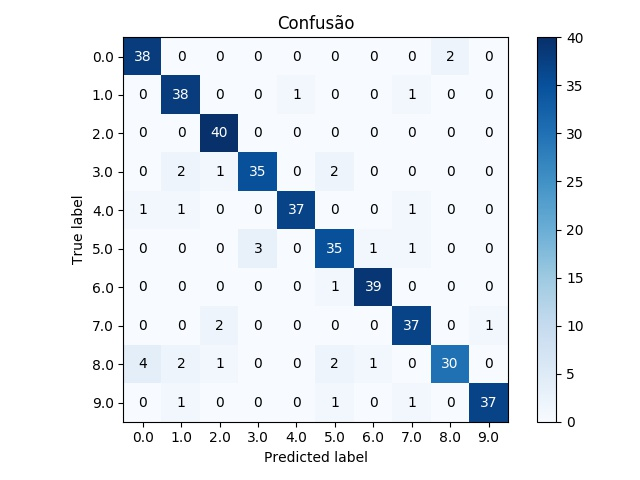
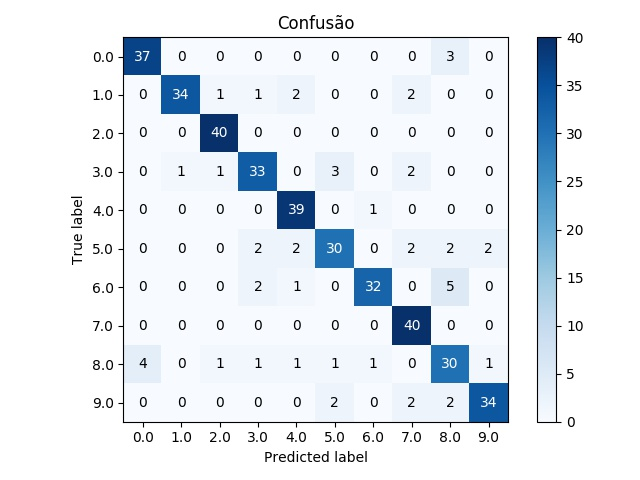
random stuff

diff --git a/main.py b/main.py
@@ -16,9 +16,6 @@ from functools import partial
 import numpy as np
 import random
 
-SEED = 0
-
-
 def data_loader(path):
 
     data = np.load(path)
@@ -36,26 +33,33 @@ def data_normalizer(X):
     return X
 
 
+def compute_number_neurons(n_features, n_classes):
+    # Masters (1993)
+    return int(np.ceil(np.sqrt(n_features * n_classes)))
+
+
 ###################### Multi-layer Perceptron ######################
 
 @ignore_warnings(category=ConvergenceWarning)
-def mlp_fitness(X_train, Y_train):
+def mlp_fitness(n_features, n_classes, X_train, Y_train):
 
-    clf = MLPClassifier(hidden_layer_sizes=(30,), random_state=SEED, max_iter=10) # in this case, max_iter is max_epochs
+    n = compute_number_neurons(n_features, n_classes)
+    clf = MLPClassifier(hidden_layer_sizes=(n,), random_state=SEED, max_iter=10) # in this case, max_iter is max_epochs
     clf.fit(X_train, Y_train) 
     train_score = clf.score(X_train, Y_train) 
     return train_score
 
 
 @ignore_warnings(category=ConvergenceWarning)
-def mlp_train_eval(X_train, Y_train, X_test, Y_test, mask=None):
+def mlp_train_eval(n_features, n_classes, X_train, Y_train, X_test, Y_test, mask=None):
 
     if mask is not None:
         X_train = mask_input(X_train, mask)
         X_test = mask_input(X_test, mask)
 
     # should be concistent with net above
-    clf = MLPClassifier(hidden_layer_sizes=(10,), random_state=SEED, max_iter=10) # in this case, max_iter is max_epochs
+    n = compute_number_neurons(n_features, n_classes)
+    clf = MLPClassifier(hidden_layer_sizes=(n,), random_state=SEED, max_iter=10) # in this case, max_iter is max_epochs
     clf.fit(X_train, Y_train)
     train_accuracy = clf.score(X_train, Y_train)
 
@@ -76,18 +80,23 @@ def mlp_train_eval(X_train, Y_train, X_test, Y_test, mask=None):
 def sigmoid(X):
     return 1. / (1. + np.exp(-X))
 
-class ELMRegressor():
-    def __init__(self, n_hidden_units):
-        self.n_hidden_units = n_hidden_units
+class ELMClassifier():
+    def __init__(self, n_features, n_classes):
+
+        self.n_features = n_features
+        self.n_classes = n_classes
+        self.n_hidden_units = compute_number_neurons(n_features, n_classes)
 
     def fit(self, X, Y):
         Y = self._format(Y)
+        assert X.shape[1] == self.n_features and Y.shape[1] == self.n_classes
         X = np.column_stack([X, np.ones([X.shape[0], 1])])
-        self.random_weights = np.random.randn(X.shape[1], self.n_hidden_units)
+        self.random_weights = np.random.randn(self.n_features + 1, self.n_hidden_units)
         G = sigmoid(X.dot(self.random_weights))
         self.w_elm = np.linalg.pinv(G).dot(Y)
 
     def predict(self, X):
+        assert X.shape[1] == self.n_features
         X = np.column_stack([X, np.ones([X.shape[0], 1])])
         G = sigmoid(X.dot(self.random_weights))
         Y_pred = G.dot(self.w_elm)
@@ -95,8 +104,7 @@ class ELMRegressor():
         return Y_pred
 
     def _format(self, Y):
-        n_classes = int(np.amax(Y) + 1) # it will work only for data formated with classes [0, ..., n]
-        Y_ = np.zeros((Y.shape[0], n_classes)) - 1.0
+        Y_ = np.zeros((Y.shape[0], self.n_classes)) - 1.0
         Y_[np.arange(Y.shape[0]), Y.astype(np.uint)] = 1.0
         return Y_
 
@@ -104,21 +112,21 @@ class ELMRegressor():
 # Keeping the ELM score consistent with the sklearn MLP score
 # https://scikit-learn.org/stable/modules/generated/sklearn.neural_network.MLPClassifier.html#sklearn.neural_network.MLPClassifier.score
 # https://github.com/scikit-learn/scikit-learn/blob/1495f6924/sklearn/base.py#L332
-def elm_fitness(X_train, Y_train):
+def elm_fitness(n_features, n_classes, X_train, Y_train):
 
-    elm = ELMRegressor(n_hidden_units=100)
+    elm = ELMClassifier(n_features, n_classes)
     elm.fit(X_train, Y_train)
     train_score = accuracy_score(Y_train, elm.predict(X_train))
     return train_score
 
 
-def elm_train_eval(X_train, Y_train, X_test, Y_test, mask=None):
+def elm_train_eval(n_features, n_classes, X_train, Y_train, X_test, Y_test, mask=None):
 
     if mask is not None:
         X_train = mask_input(X_train, mask)
         X_test = mask_input(X_test, mask)
 
-    elm = ELMRegressor(n_hidden_units=100)
+    elm = ELMClassifier(n_features, n_classes)
     elm.fit(X_train, Y_train)
     train_accuracy = accuracy_score(Y_train, elm.predict(X_train))
 
@@ -160,17 +168,24 @@ def plot_confusion_matrix(cm, classes, title, normalize=False, filepath=None):
     else:
         plt.savefig(filepath)
 
+
+def save_metrics(filename, metrics):
+
+    with open(filename, 'a') as f:
+        f.write(','.join(['{}'.format(m) for m in metrics]) + '\n')
+
+
 def mask_input(X, mask):
 
     return X * mask
 
 
-def fitness_func_wrapper(fitness_func, X_train, Y_train, mask):
+def fitness_func_wrapper(fitness_func, n_features, n_classes, X_train, Y_train, mask):
 
     rho = 0.9
     omega = 1.0 - rho
     X_train = mask_input(X_train, mask)
-    train_score = fitness_func(X_train, Y_train)
+    train_score = fitness_func(n_features, n_classes, X_train, Y_train)
     score = rho * (1.0 - train_score) + omega * mask.sum().astype(np.float) / mask.shape[1]
     return score
 
@@ -181,11 +196,10 @@ def main(net, dataset):
     random.seed(SEED)
 
     X, Y = data_loader('datasets/{}.npy'.format(dataset))
+    n_features, n_classes = {'breastEW':(30, 2), 'hepatitis':(19, 2), 'multiple_features':(649, 10)}[dataset]
     X_train, X_test, Y_train, Y_test = train_test_split(X, Y, test_size=0.2, random_state=SEED, stratify=Y)
     X_train = data_normalizer(X_train) # Yes, should be normalized after the train test split
     X_test = data_normalizer(X_test)
-
-    dim = X_train.shape[1]
     
     if net == 'NN':
         net_fitness, net_train_eval = mlp_fitness, mlp_train_eval
@@ -194,32 +208,34 @@ def main(net, dataset):
     else:
         ValueError('Algorithm {} not implemented.'.format(net))
 
-    fitness_func = partial(fitness_func_wrapper, net_fitness, X_train, Y_train)
+    fitness_func = partial(fitness_func_wrapper, net_fitness, n_features, n_classes, X_train, Y_train)
     
-    best, fbest = genetic_algorithm(fitness_func=fitness_func, dim=dim, n_individuals=50)
+    best, fbest = genetic_algorithm(fitness_func=fitness_func, dim=n_features, n_individuals=30)
 
     # I have added some extra and optinal outputs in the net_train_eval function
     # It's not elegant but...
-    train_accuracy, accuracy, recall, precision, fmeasure, confusion = net_train_eval(X_train, Y_train, X_test, Y_test, best)
+    train_accuracy, accuracy, recall, precision, fmeasure, confusion = net_train_eval(n_features, n_classes, X_train, Y_train, X_test, Y_test, best)
 
     # This result may match the 0.9 * (1.0 - train_score) + 0.1 * (n/nclasses) = fbest
     # If it does not match, it is because of the retraining of the net (net_train_eval) that used a different set of random weights
     # So, it is not a bug !
     print("##############################################################################")
     print("Let's see the training accuracy:", train_accuracy)
-    print("Let's see the best feature size: {} of {}".format(best.sum(), best.shape[1]))
+    print("Let's see the best feature size: {} of {}".format(best.sum(), n_features))
     print("Let's see the fitness found by the best feature:", fbest)
     print("Let's see the accuracy:", accuracy)
     print("Let's see the recall score:", recall)
     print("Let's see the precision score:", precision)
     print("Let's see the f1 score:", fmeasure)
     # I think if the normalized plot is better
-    plot_confusion_matrix(confusion, unique_labels(Y_test), 'Confusão', filepath='output/{}/confusion_matrix/{}.jpg'.format(dataset, net))
+    save_metrics('output/{}/{}_{}.log'.format(dataset, SEED, net), [best.sum(), fbest, accuracy, recall, precision, fmeasure])
+    plot_confusion_matrix(confusion, unique_labels(Y_test), 'Confusão', filepath='output/{}/confusion_matrix/{}_{}.jpg'.format(dataset, SEED, net))
     print("##############################################################################")
 
 if __name__ == '__main__':
 
-    for dataset in ['breastEW', 'hepatitis', 'multiple_features']:
-        for net in ['NN', 'ELM']:
-            print('### Running experiment with net {} and dataset {} ###'.format(net, dataset))
-            main(net, dataset)
+    for SEED in range(10):
+        for dataset in ['breastEW', 'hepatitis', 'multiple_features']:
+            for net in ['NN', 'ELM']:
+                print('### Running experiment with net {}, dataset {} and SEED {} ###'.format(net, dataset, SEED))
+                main(net, dataset)

diff --git a/datasets/breast/unif.py b/datasets/breast/unif.py
@@ -16,4 +16,6 @@ X = data[:, 2:]
 
 data = np.concatenate((X, Y), axis=1)
 
+print(data.shape)
+
 np.save('breastEW.npy', data)
